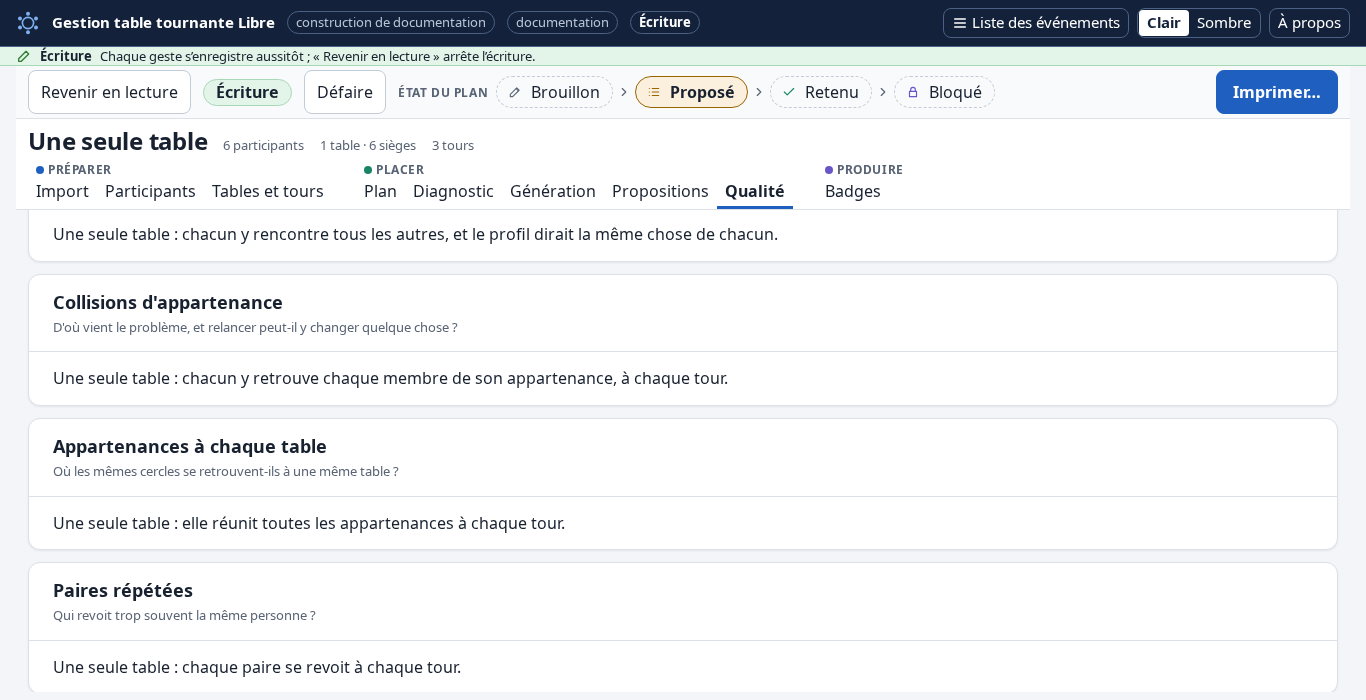
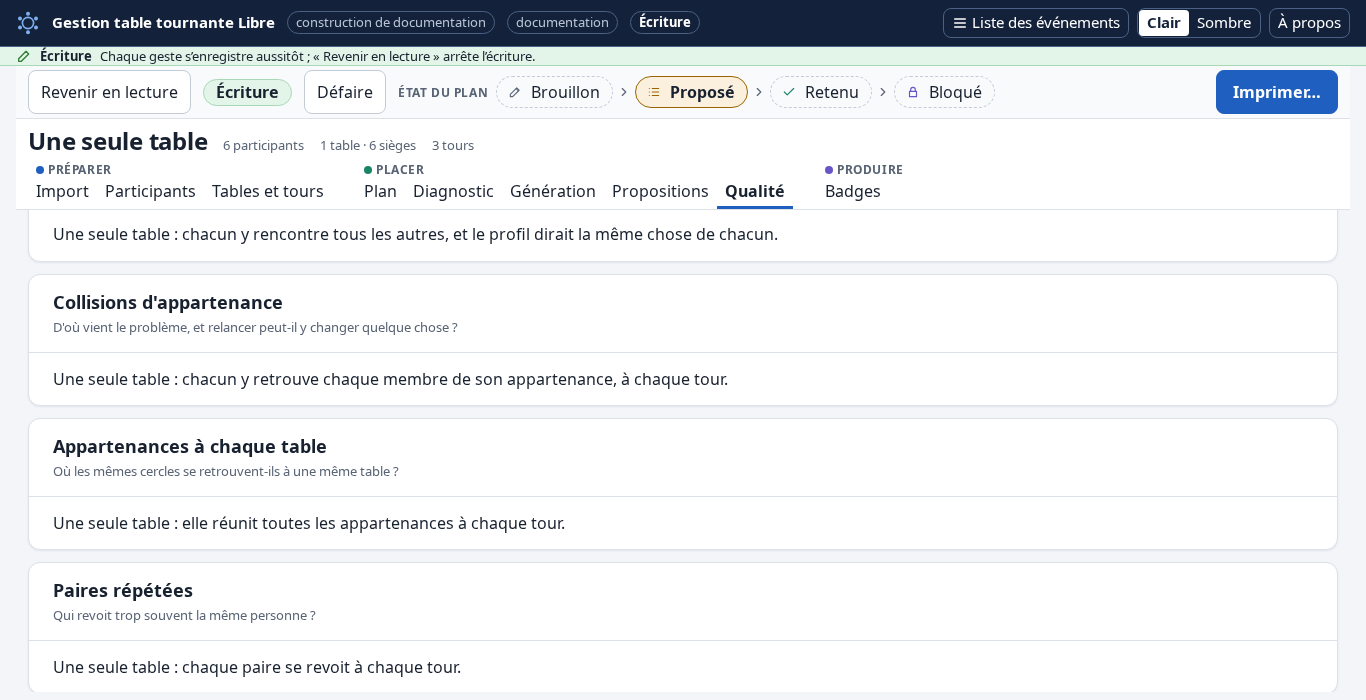
[IMP] quality page: a reached floor reads « le meilleur atteint »
The line a tile writes when its measure equals its proved floor now reads
« plancher N, le meilleur atteint », the wording chosen for the page; it
still speaks of that one measure only. A floor of 0 in the goals view stays
written, as it confirms zero is reachable.
Checked: node 5130, browser 1146, long 128; one capture moves with the text.

--- FR ---

[IMP] page qualité : un plancher atteint se lit « le meilleur atteint »

La ligne qu'écrit une tuile quand sa mesure égale son plancher prouvé se lit
désormais « plancher N, le meilleur atteint », le libellé retenu pour la
page ; elle ne parle toujours que de cette mesure. Un plancher 0 dans la vue
des objectifs reste écrit : il confirme que zéro est atteignable.
Vérifié : node 5130, navigateur 1146, longues 128 ; une capture suit le texte.

Assisted-by: Claude Opus 5.5

Changed region(s): [[0.3075, 0.54, 0.5227, 0.57], [0.1537, 0.54, 0.2767, 0.57], [0.0615, 0.54, 0.123, 0.57]]

diff --git a/src/interface/libelles/qualite.js b/src/interface/libelles/qualite.js
@@ -104,7 +104,7 @@ export const TABLE = new Map([
   ['qualite.tuile.borneDiversite', ({ borne }) => `borne de diversité ${borne}`],
   ['qualite.tuile.borneAnimateurs', ({ borne }) => `borne des animateurs ${borne}`],
   ['qualite.tuile.plancher', ({ plancher }) => `plancher ${plancher}`],
-  ['qualite.tuile.plancherAtteint', ({ plancher }) => `plancher ${plancher} atteint : impossible de faire moins`],
+  ['qualite.tuile.plancherAtteint', ({ plancher }) => `plancher ${plancher}, le meilleur atteint`],
   ['qualite.tuile.toursPossibles', ({ possibles }) => compte(possibles, 'tour possible', 'tours possibles')],
   ['qualite.tuile.imposees', ({ imposees }) => `${compte(imposees, 'imposée', 'imposées')}, à part`],
   ['qualite.tuile.imposes', ({ imposes }) => `${compte(imposes, 'imposé', 'imposés')}, à part`],

diff --git a/src/interface/qualite/entete.test.js b/src/interface/qualite/entete.test.js
@@ -329,7 +329,7 @@ describe('enteteDe : les bornes, chacune d’une personne nommée (§ 12.2, B11,
 
   test('rouge : les deux lignes du plancher, mot pour mot, ne disent rien que de la mesure de leur tuile', () => {
     assert.equal(t('qualite.tuile.plancher', { plancher: 4 }), 'plancher 4');
-    assert.equal(t('qualite.tuile.plancherAtteint', { plancher: 4 }), 'plancher 4 atteint : impossible de faire moins');
+    assert.equal(t('qualite.tuile.plancherAtteint', { plancher: 4 }), 'plancher 4, le meilleur atteint');
   });
 
   test('rouge : une tuile des objectifs qui ne classe pas n’écrit aucun plancher, même prouvé, comme le diagnostic (§ 5.6)', () => {

diff --git a/spec.md b/spec.md
@@ -3780,7 +3780,7 @@ atteint », ou « atteignabilité inconnue », suit les tuiles (§ 5.5).
 
 **Une tuile écrit le plancher que le diagnostic écrit pour sa mesure** (§ 5.6),
 et là seulement, en dernière ligne, sous son chiffre : « plancher 4 », ou
-« plancher 4 atteint : impossible de faire moins » quand la mesure que la tuile
+« plancher 4, le meilleur atteint » quand la mesure que la tuile
 écrit l'égale. Ces deux lignes ne parlent que de cette mesure, jamais du
 placement entier, et ne nomment personne. Sept tuiles peuvent en porter un : les
 collisions cumulées, les paires distinctes et l'excédent, chacun la somme des

diff --git a/CHANGELOG.md b/CHANGELOG.md
@@ -105,7 +105,7 @@
   sans objet — une seule table, un seul tour, aucune appartenance, aucune
   collision… — s'écrit en une phrase, jamais par des axes vides.
 - Une tuile écrit sous son chiffre le plancher que le diagnostic prouve pour sa
-  mesure, « plancher 4 », et « plancher 4 atteint : impossible de faire moins »
+  mesure, « plancher 4 », et « plancher 4, le meilleur atteint »
   quand la mesure l'égale : collisions cumulées, paires distinctes, excédent,
   écart d'itinéraire maximal et, chacun quand le critère des objectifs le
   compare sous le mode réglé, personnes jamais servies, plus de tours hors
